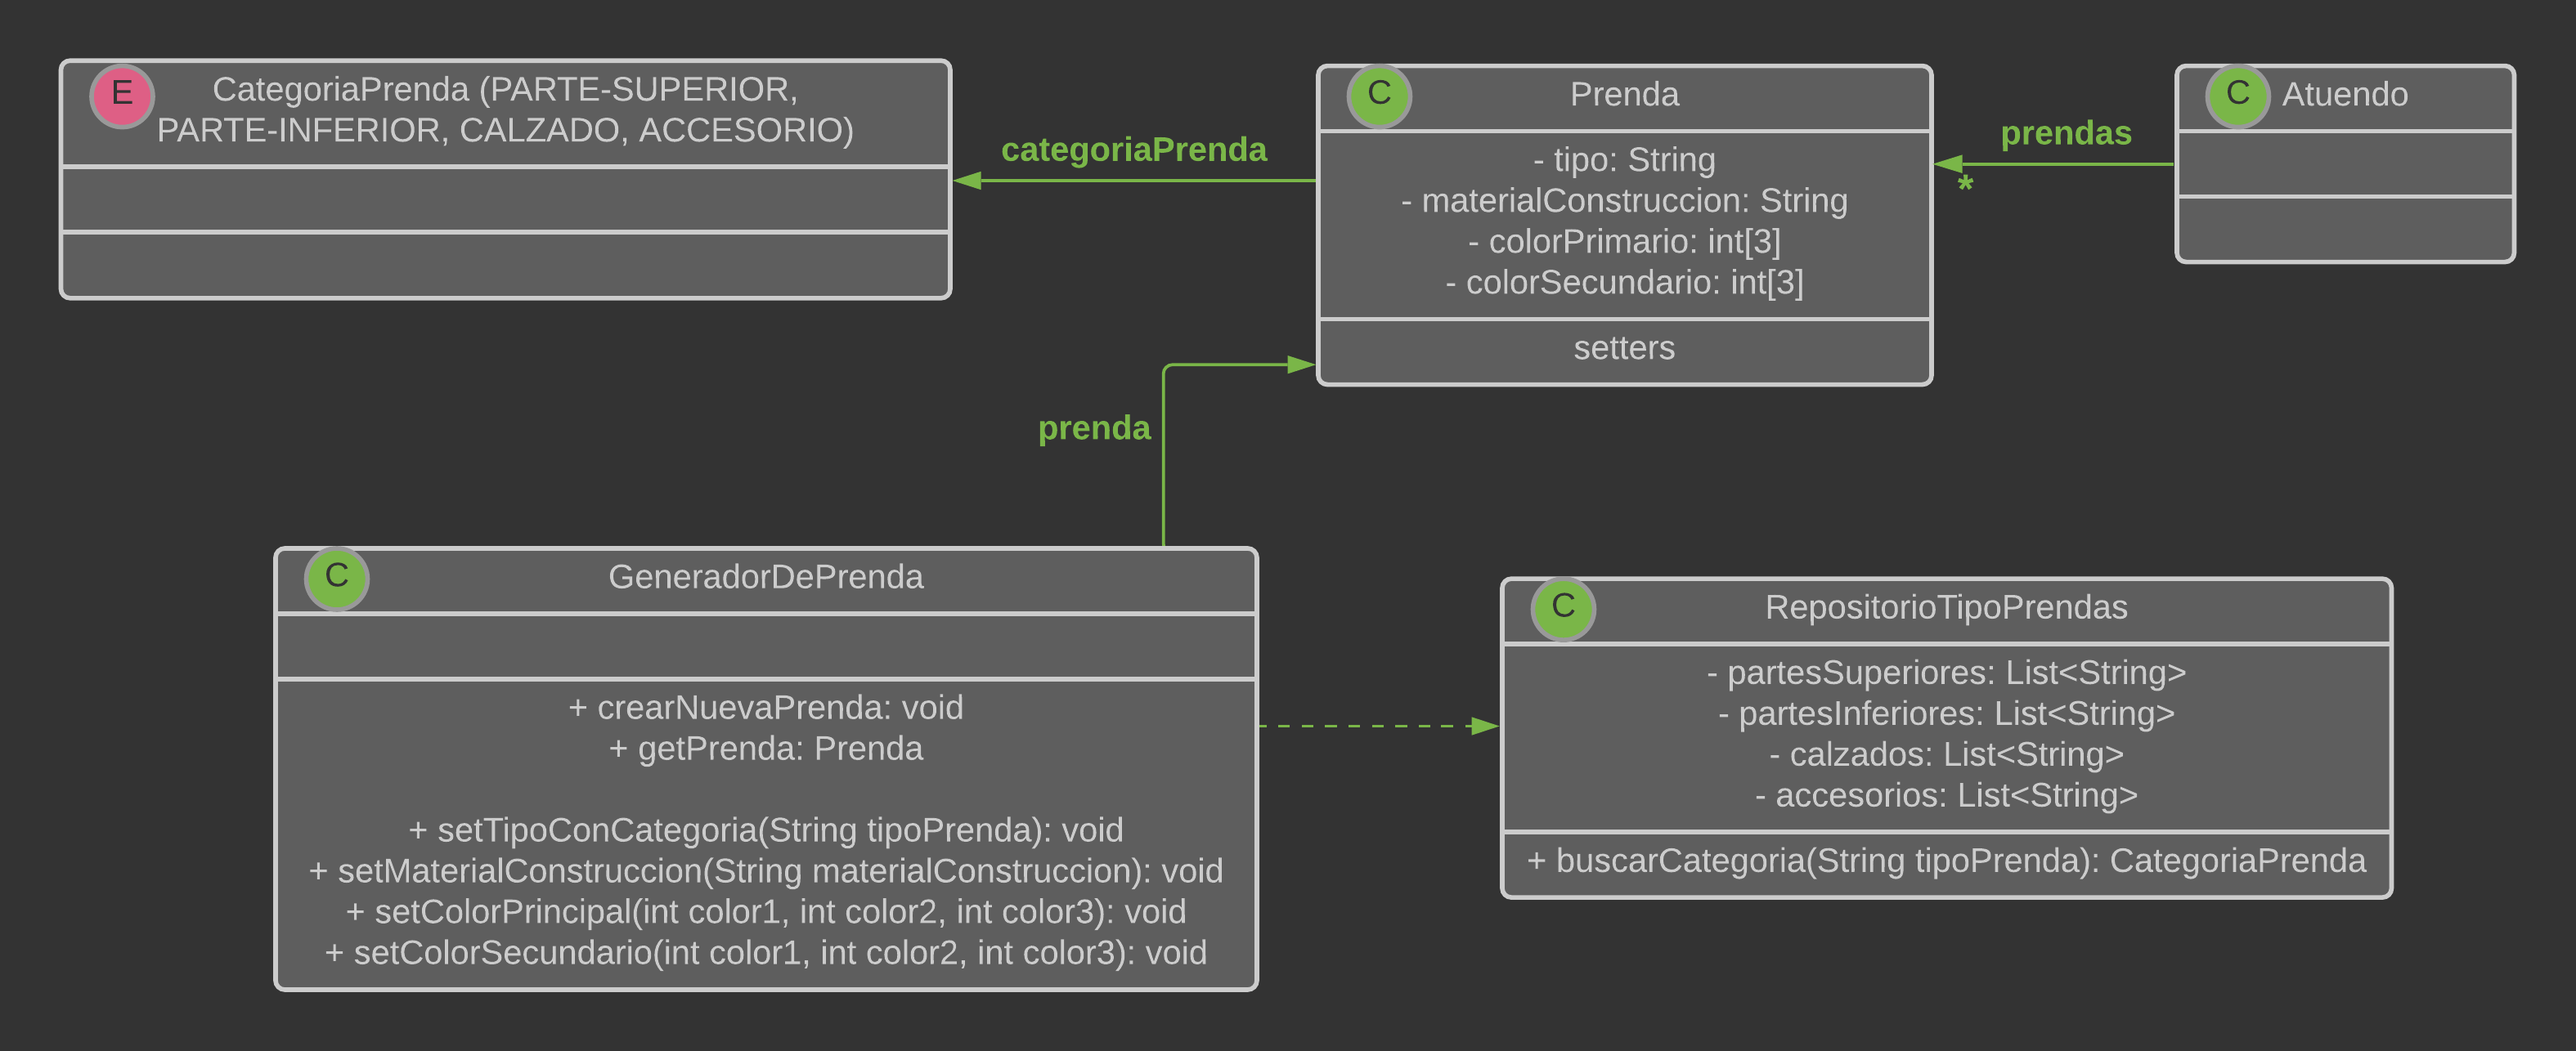
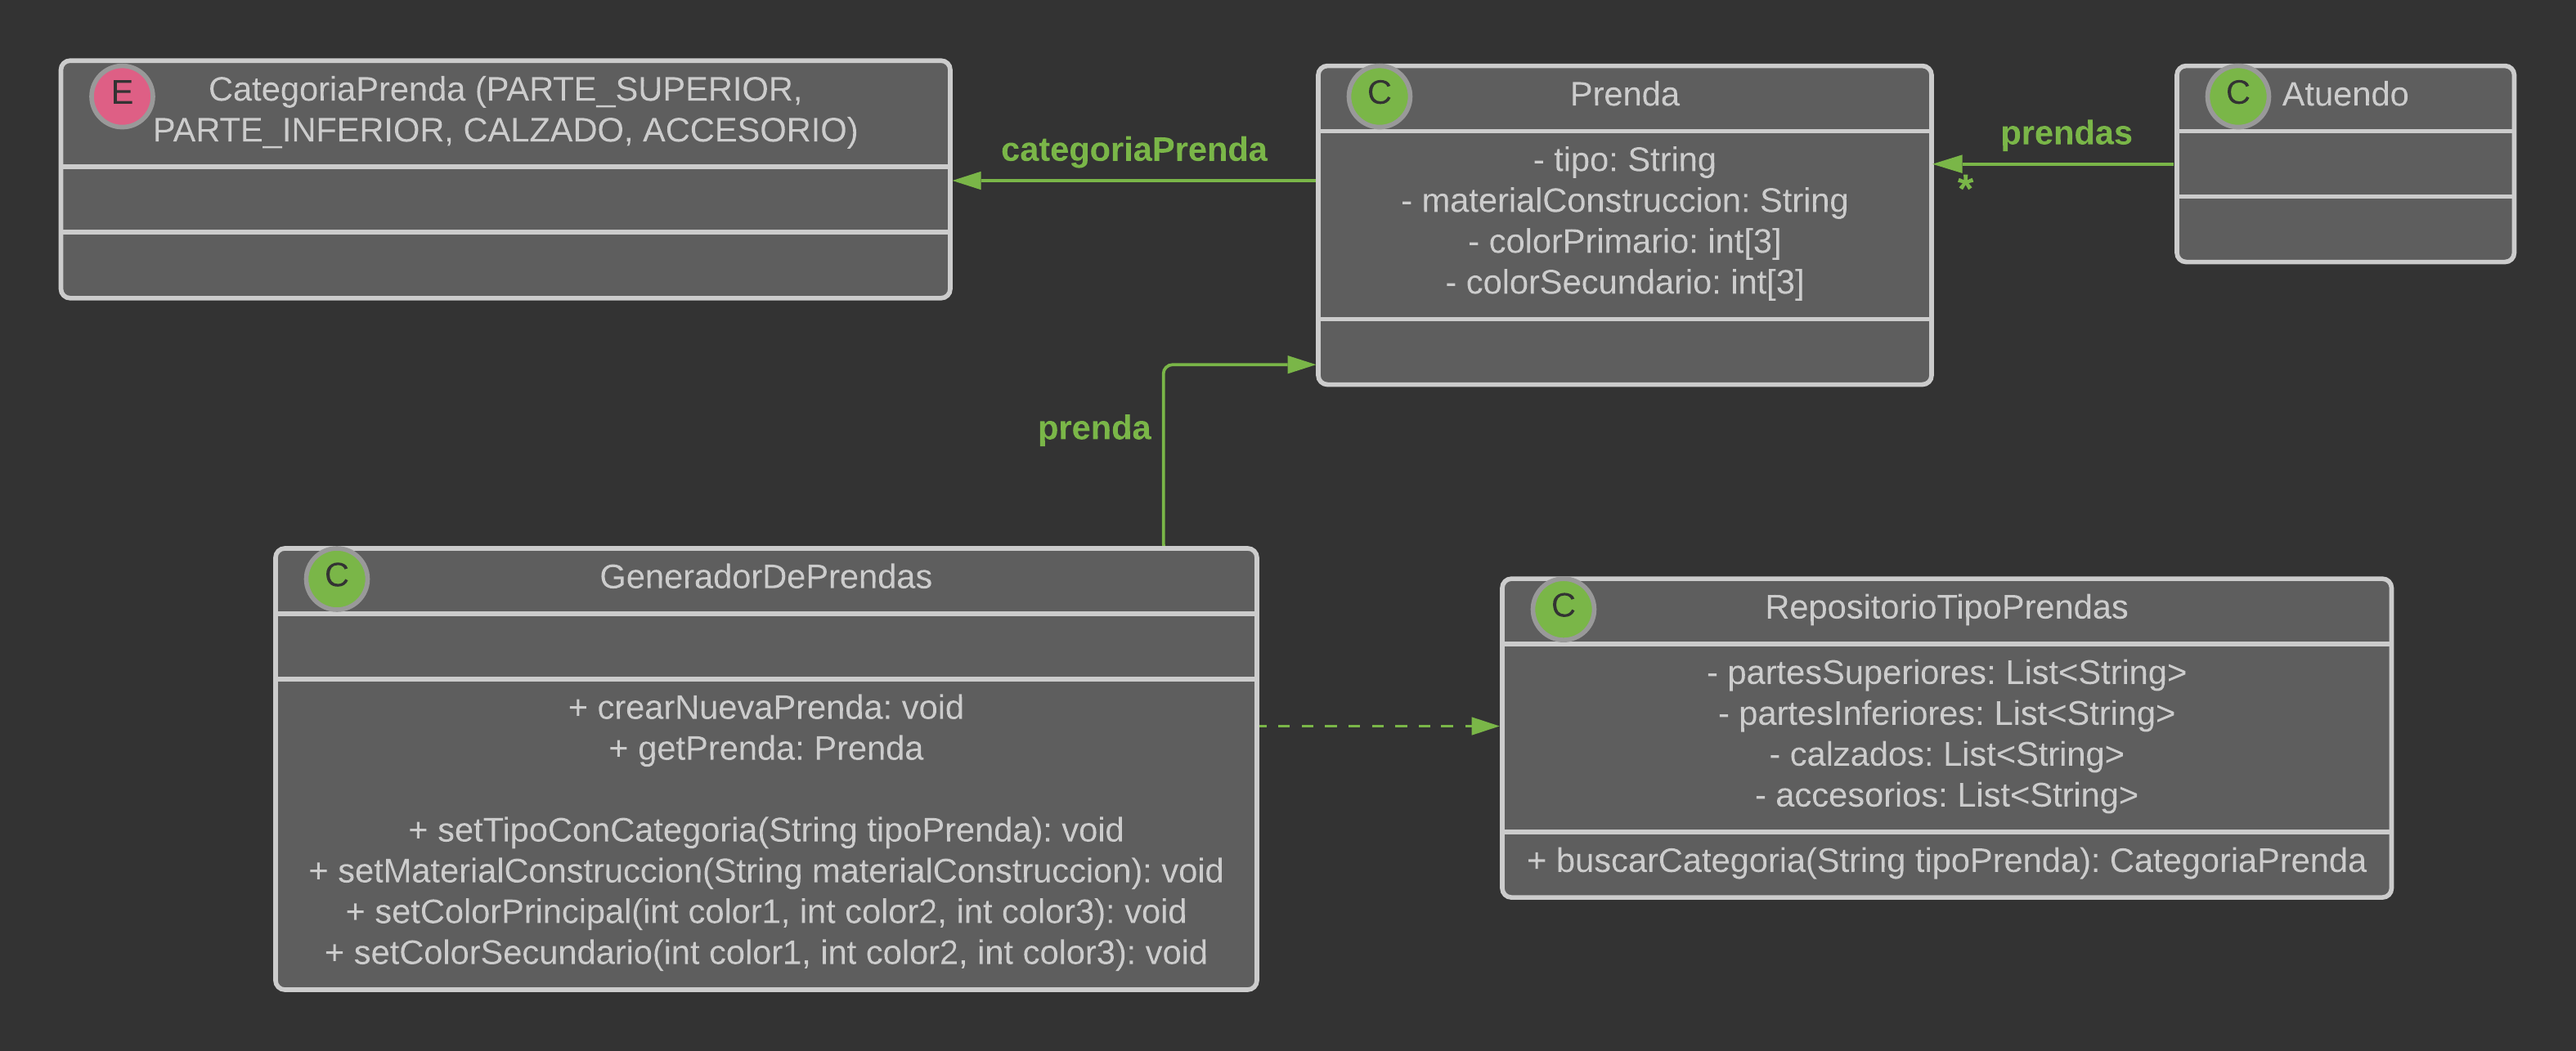
Actualizo el readme

Changed region(s): [[0.0622, 0.0622, 0.3422, 0.1555], [0.2178, 0.5288, 0.3733, 0.5599], [0.6222, 0.311, 0.6533, 0.3421]]

diff --git a/src/test/java/Tests/RopaTest.java b/src/test/java/Tests/RopaTest.java
@@ -1,0 +1,24 @@
+package Tests;
+
+import org.junit.jupiter.api.Assertions;
+import org.junit.jupiter.api.Test;
+
+import Ropa.*;
+
+public class RopaTest {
+
+  @Test
+  public void siComeAumentaSuEnergia() {
+    Golondrina pepita = new Golondrina(40);
+    pepita.comer(23);
+    Assertions.assertEquals(109, pepita.getEnergia());
+  }
+
+  @Test
+  public void siVuelaDecrementaSuEnergia() {
+    Golondrina pepita = new Golondrina(40);
+    pepita.comer(23);
+    pepita.volar();
+    Assertions.assertEquals(99, pepita.getEnergia());
+  }
+}

diff --git a/src/main/java/Ropa/RepositorioTipoPrendas.java b/src/main/java/Ropa/RepositorioTipoPrendas.java
@@ -14,11 +14,12 @@ public class RepositorioTipoPrendas {
     return INSTANCE;
   }
 
+
+
   private List<String> partesSuperiores;
   private List<String> partesInferiores;
   private List<String> calzados;
   private List<String> accesorios;
-
 
   public CategoriaPrenda buscarCategoria(String tipoPrenda){
 

diff --git a/src/main/java/Ropa/Prenda.java b/src/main/java/Ropa/Prenda.java
@@ -8,6 +8,7 @@ public class Prenda {
   private int[] colorPrincipal = new int[3];
   private int[] colorSecundario = new int[3];
 
+  public Prenda(){}
 
   //SETTERS
   public void setTipo(String tipo){

diff --git a/README.md b/README.md
@@ -7,6 +7,21 @@
 </p>
 
 
+## Explicacion
+
+* La clase "Prenda" tiene estado, pero no tiene comportamiento relevante (por el momento). No se debe poder 
+  instanciar clases de "Prenda" directamente, se deben instanciar desde el "GeneradorDePrendas"
+
+
+* la clase "GeneradorDePrendas" sirve para configurar las instancias de "Prenda" y dejarlas con un estado aceptable 
+  para el sistema. Además esta clase permite evitar tener un constructor de "Prenda" con demasiados atributos.
+  
+
+* la clase "RepositorioTipoVentas" es un singleton que usamos para tratar de representar lo que sería una petición a
+  una base de datos, aunque no sabemos si sería correcto. La idea es que las listas que están en esta clase se puedan 
+  persistir y actualizar para poder identificar TIPOS de prendas válidos.
+
+
 ## Pseudocodigo
 
 ~~~
@@ -19,8 +34,8 @@ class Atuendo{
 class Prenda{
   String tipo
   CategoriaPrenda categoria
-  String materialConstruccion          ⚠❔
-  int[] colorPrincipal = new int[3];   ⚠❔
+  String materialConstruccion
+  int[] colorPrincipal = new int[3];
   int[] colorSecundario = new int[3];
   
   
